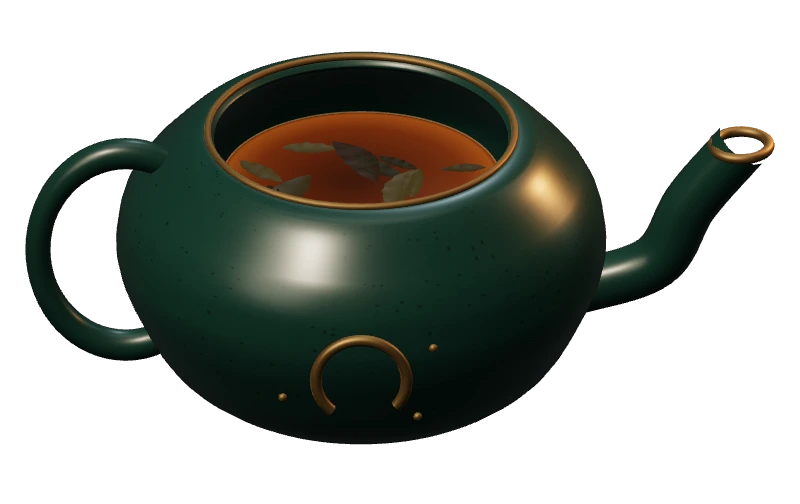
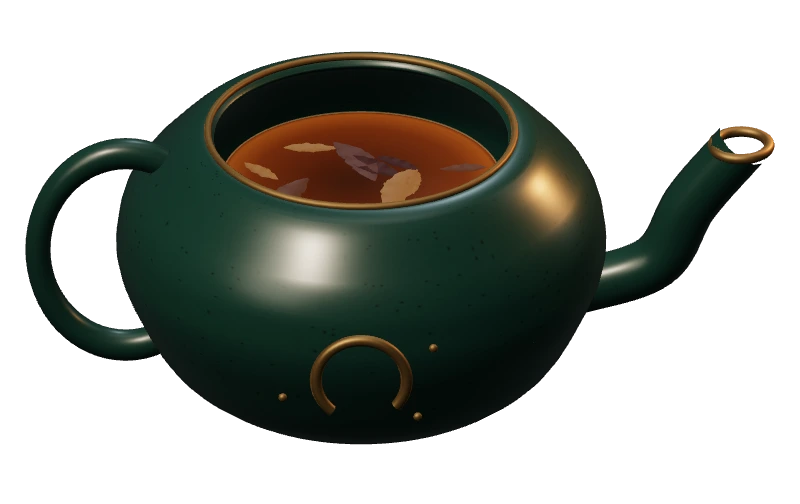
Differentiate tea leaves across tea props

diff --git a/video/src/tea-leaves.js b/video/src/tea-leaves.js
@@ -7,20 +7,55 @@ const noise = (seed) => {
   return n - Math.floor(n);
 };
 
+const teaStyles = {
+  osmanthus: {
+    colors: ["#9c8a50", "#695a35", "#c2a263", "#705037"],
+    scale: [1, 0.94],
+  },
+  puer: {
+    colors: ["#513024", "#351f1b", "#714232", "#4d3025"],
+    scale: [1.18, 1.22],
+  },
+  mint: {
+    colors: ["#91aa70", "#648551", "#bed08a", "#58784d"],
+    scale: [0.78, 1.32],
+  },
+  jasmine: {
+    colors: ["#8eaa4a", "#5d7832", "#c1cf7b", "#66853b"],
+    scale: [0.92, 0.78],
+  },
+  black: {
+    colors: ["#b86c38", "#804329", "#dc9c54", "#915136"],
+    scale: [1.28, 0.78],
+  },
+  chamomile: {
+    colors: ["#b6a854", "#7e8752", "#ded07a", "#99834a"],
+    scale: [0.76, 1.15],
+  },
+  lavender: {
+    colors: ["#775047", "#59353e", "#b0845b", "#76545e"],
+    scale: [0.95, 0.88],
+  },
+  hojicha: {
+    colors: ["#865334", "#563828", "#bb8050", "#684337"],
+    scale: [1.22, 0.7],
+  },
+};
+
 export function createTeaLeaves() {
   const canvas = document.createElement("canvas");
   canvas.width = 256;
   canvas.height = 128;
   const ctx = canvas.getContext("2d");
-  ctx.fillStyle = "#7b7655";
+  ctx.fillStyle = "#c8c3a9";
   ctx.fillRect(0, 0, 256, 128);
   for (let i = 0; i < 2200; i++) {
-    ctx.fillStyle = i % 3 ? "#514d34" : "#9b9063";
+    ctx.fillStyle = i % 3 ? "#574e3c" : "#eee5c8";
     ctx.globalAlpha = 0.12 + noise(i) * 0.18;
     ctx.fillRect(noise(i + 1) * 256, noise(i + 2) * 128, 1, 2);
   }
   ctx.globalAlpha = 0.5;
-  ctx.strokeStyle = "#aea071";
+  ctx.strokeStyle = "#eee3c2";
   ctx.lineWidth = 1.2;
   ctx.beginPath();
   ctx.moveTo(0, 64);
@@ -48,7 +83,7 @@ export function createTeaLeaves() {
   }
   const texture = new THREE.CanvasTexture(canvas);
   texture.colorSpace = THREE.SRGBColorSpace;
-  const materials = ["#817653", "#605b3e", "#99906b", "#6d5138"].map(
+  const materials = teaStyles.osmanthus.colors.map(
     (color) =>
       new THREE.MeshStandardMaterial({
         color,
@@ -64,6 +99,7 @@ export function createTeaLeaves() {
     wet.roughness = 0.48;
     return wet;
   });
+  const instances = [];
 
   function leaf(seed, wet, parent, position = [0, 0, 0]) {
     const length = (wet ? 0.2 : 0.095) * (0.7 + noise(seed) * 0.9);
@@ -113,11 +149,26 @@ export function createTeaLeaves() {
       geometry,
       (wet ? wetMaterials : materials)[seed % 4],
     );
+    instances.push({ object, seed });
     object.position.set(...position);
     object.rotation.y = noise(seed + 71) * Math.PI * 2;
     object.castShadow = object.receiveShadow = true;
     parent.add(object);
     return object;
   }
-  return { leaf, noise };
+  function setType(type = "osmanthus") {
+    const style = teaStyles[type] ?? teaStyles.osmanthus;
+    style.colors.forEach((color, i) => {
+      materials[i].color.set(color);
+      wetMaterials[i].color.set(color);
+    });
+    for (const { object, seed } of instances) {
+      const variation = 0.78 + noise(seed + 2) * 0.42;
+      const x = style.scale[0] * variation;
+      const z = style.scale[1] * variation;
+      object.userData.teaScale = [x, z];
+      object.scale.set(x, 1, z);
+    }
+  }
+  return { leaf, noise, setType };
 }

diff --git a/video/src/tea-set.js b/video/src/tea-set.js
@@ -585,7 +585,11 @@ export function createTeaSet(container, W = 1280, H = 720) {
     jar,
   );
   leafBed.rotation.x = -Math.PI / 2;
-  const { leaf: teaLeaf, noise: leafNoise } = createTeaLeaves();
+  const {
+    leaf: teaLeaf,
+    noise: leafNoise,
+    setType: setTeaType,
+  } = createTeaLeaves();
   for (let i = 0; i < 90; i++) {
     const a = leafNoise(i + 201) * Math.PI * 2;
     const r = Math.sqrt(leafNoise(i + 312)) * 0.215;
@@ -630,6 +634,18 @@ export function createTeaSet(container, W = 1280, H = 720) {
   const floatingLeaves = [];
   for (let i = 0; i < 13; i++) {
     floatingLeaves.push(teaLeaf(i + 30, true, pot));
+  }
+  const dryPotLeaves = [];
+  for (let i = 0; i < 64; i++) {
+    const angle = leafNoise(i + 141) * Math.PI * 2;
+    const radius = Math.sqrt(leafNoise(i + 162)) * 0.34;
+    const leaf = teaLeaf(i + 180, false, pot, [
+      Math.cos(angle) * radius,
+      0.7 + leafNoise(i + 203) * 0.08,
+      Math.sin(angle) * radius,
+    ]);
+    leaf.rotation.x = (leafNoise(i + 231) - 0.5) * 0.9;
+    dryPotLeaves.push(leaf);
   }
   const streamMat = new THREE.MeshPhysicalMaterial({
     color: "#d7e5e2",
@@ -1021,8 +1037,10 @@ export function createTeaSet(container, W = 1280, H = 720) {
       glaze = "#234d47",
       state = "empty",
       liquidOnly = false,
+      teaType = "osmanthus",
     } = {},
   ) {
+    setTeaType(teaType);
     setFrame("complete", 0);
     const filled = state === "full" || state === "water";
     const objects = { jar, jarLid, kettle, pot, potLid: lid, cup, spoon };
@@ -1054,7 +1072,15 @@ export function createTeaSet(container, W = 1280, H = 720) {
     floatingLeaves.forEach((l) => {
       l.visible = kind === "pot" && state !== "empty";
       l.position.y = filled ? 0.723 : 0.18;
-      l.scale.set(filled ? 1 : 0.65, filled ? 1 : 2, filled ? 1 : 0.65);
+      const [leafWidth, leafLength] = l.userData.teaScale ?? [1, 1];
+      l.scale.set(
+        (filled ? 1 : 0.65) * leafWidth,
+        filled ? 1 : 2,
+        (filled ? 1 : 0.65) * leafLength,
+      );
+    });
+    dryPotLeaves.forEach((leaf) => {
+      leaf.visible = kind === "pot" && state === "leaves";
     });
     cupLiquid.visible = kind === "cup" && filled;
     cupLiquid.position.y = 0.47;

diff --git a/src/components/tea/TeaTable.vue b/src/components/tea/TeaTable.vue
@@ -118,6 +118,11 @@ const aromaTeas = computed(() => {
   if (draft.blendTeaId && draft.blendLeaves > 0) inPot.push(draft.blendTeaId);
   return inPot;
 });
+const dominantTeaId = computed(() =>
+  draft.blendTeaId && draft.blendLeaves > draft.leaves
+    ? draft.blendTeaId
+    : draft.teaId,
+);
 const showAroma = computed(
   () =>
     !settings.values.reducedMotion &&
@@ -931,7 +936,8 @@ defineExpose({ hint, cancel });
           :liquor-color="infusion.color"
           :liquor-strength="infusion.strength"
           :fill="potRemaining"
-          :loaded="draft.leaves > 0"
+          :loaded="totalLeaves > 0"
+          :tea-type="dominantTeaId"
           :color="selected.color"
         />
         <g v-if="potIngredients.length" transform="translate(40 -82)" pointer-events="none" aria-hidden="true" class="ingredient-markers">
@@ -1004,6 +1010,7 @@ defineExpose({ hint, cancel });
         <TeaObject
           kind="spoon"
           :loaded="draft.spoonLoaded"
+          :tea-type="draft.spoonTeaId || draft.teaId"
           :color="draft.spoonLoaded && draft.spoonTeaId ? teas[draft.spoonTeaId].color : selected.color"
         />
       </g>

diff --git a/src/components/tea/TeaObject.vue b/src/components/tea/TeaObject.vue
@@ -10,6 +10,7 @@ const props = withDefaults(
     label?: string;
     open?: boolean;
     loaded?: boolean;
+    teaType?: string;
     fill?: number;
     liquorColor?: string;
     liquorStrength?: number;
@@ -19,6 +20,7 @@ const props = withDefaults(
     label: "",
     open: false,
     loaded: false,
+    teaType: undefined,
     fill: 0,
     liquorStrength: 1,
     liquorColor: undefined,
@@ -56,11 +58,14 @@ const assetId = computed(() => {
     return props.fill > 0 ? `cup-${teaId.value}` : "cup";
   if (props.kind === "pot")
     return props.fill > 0
-      ? `pot-${teaId.value}`
+      ? `pot-${props.teaType || teaId.value}`
       : props.loaded
-        ? "pot-leaves"
+        ? `pot-${props.teaType || teaId.value}-leaves`
         : "pot";
-  if (props.kind === "spoon") return props.loaded ? "spoon-full" : "spoon";
+  if (props.kind === "spoon")
+    return props.loaded
+      ? `spoon-${props.teaType || teaId.value}-full`
+      : "spoon";
   return props.kind;
 });
 const liquorAsset = computed(

diff --git a/docs/TEA_PROPS.md b/docs/TEA_PROPS.md
@@ -9,8 +9,8 @@
 - 銅水壺：低矮圓腹、槌目凹凸、獨立壺蓋、胡桃木握柄與蓋鈕、金屬提梁和接點；鵝頸壺嘴逐漸收細，包含壺口內孔。茶匙仍有凹入匙面和圓滑柄，空匙與有茶葉分開渲染。
 - 茶湯：以半透明、非金屬液面、中心深淺、邊緣彎月面和少量細泡表現深度；水流加入透光材質，互動水線增加細高光。`teaLiquorColors` 與茶罐辨識色分開，薰衣草伯爵仍呈紅茶色。這是美術近似，不是即時流體或光譜吸收模擬。
 - 光線改為單一寬柔光、側面反光條與頂光的程序式攝影棚環境，減少多個強光斑造成的塑膠感。
-- 茶葉改用雙面薄片網格：尖端、不對稱邊緣、破口、摺痕與分岔葉脈。罐內與匙內以大小不一的深褐乾葉堆疊；壺內使用較寬的泡開葉片，位置與朝向採固定種子的散布，浸泡時緩慢舒展。不同茶方目前共用葉型，尚未分別製作花朵或品種專屬植物模型。
-- 44 個 WebP 狀態涵蓋 16 個茶罐開／關、16 個不同茶色的壺／杯、6 個基本器具，以及壺內乾葉、匙內茶葉與四個清水／獨立液面狀態。主要操作器物全部透明背景，比例和位置由 manifest 提供。
+- 茶葉使用雙面薄片網格：尖端、不對稱邊緣、破口、摺痕與分岔葉脈。八種茶分別使用不同的葉色、長寬比例及散葉尺度；罐內、茶匙、未注水的壺與注水後的壺都依茶種預渲染。不同茶方目前仍共用葉片基礎網格，尚未加入洋甘菊花頭、桂花或薰衣草花苞等專屬植物模型。
+- 60 個 WebP 狀態涵蓋 16 個茶罐開／關、16 個不同茶色的壺／杯、16 個茶種專屬乾葉壺與滿匙、6 個基本器具，以及四個清水／獨立液面狀態。主要操作器物全部透明背景，比例和位置由 manifest 提供。
 
 素材由原生程式模型製作，沒有外部照片、AI 生圖或下載的模型。材質細紋使用固定亂數種子；同一模型同時用於 Remotion 影片。
 
